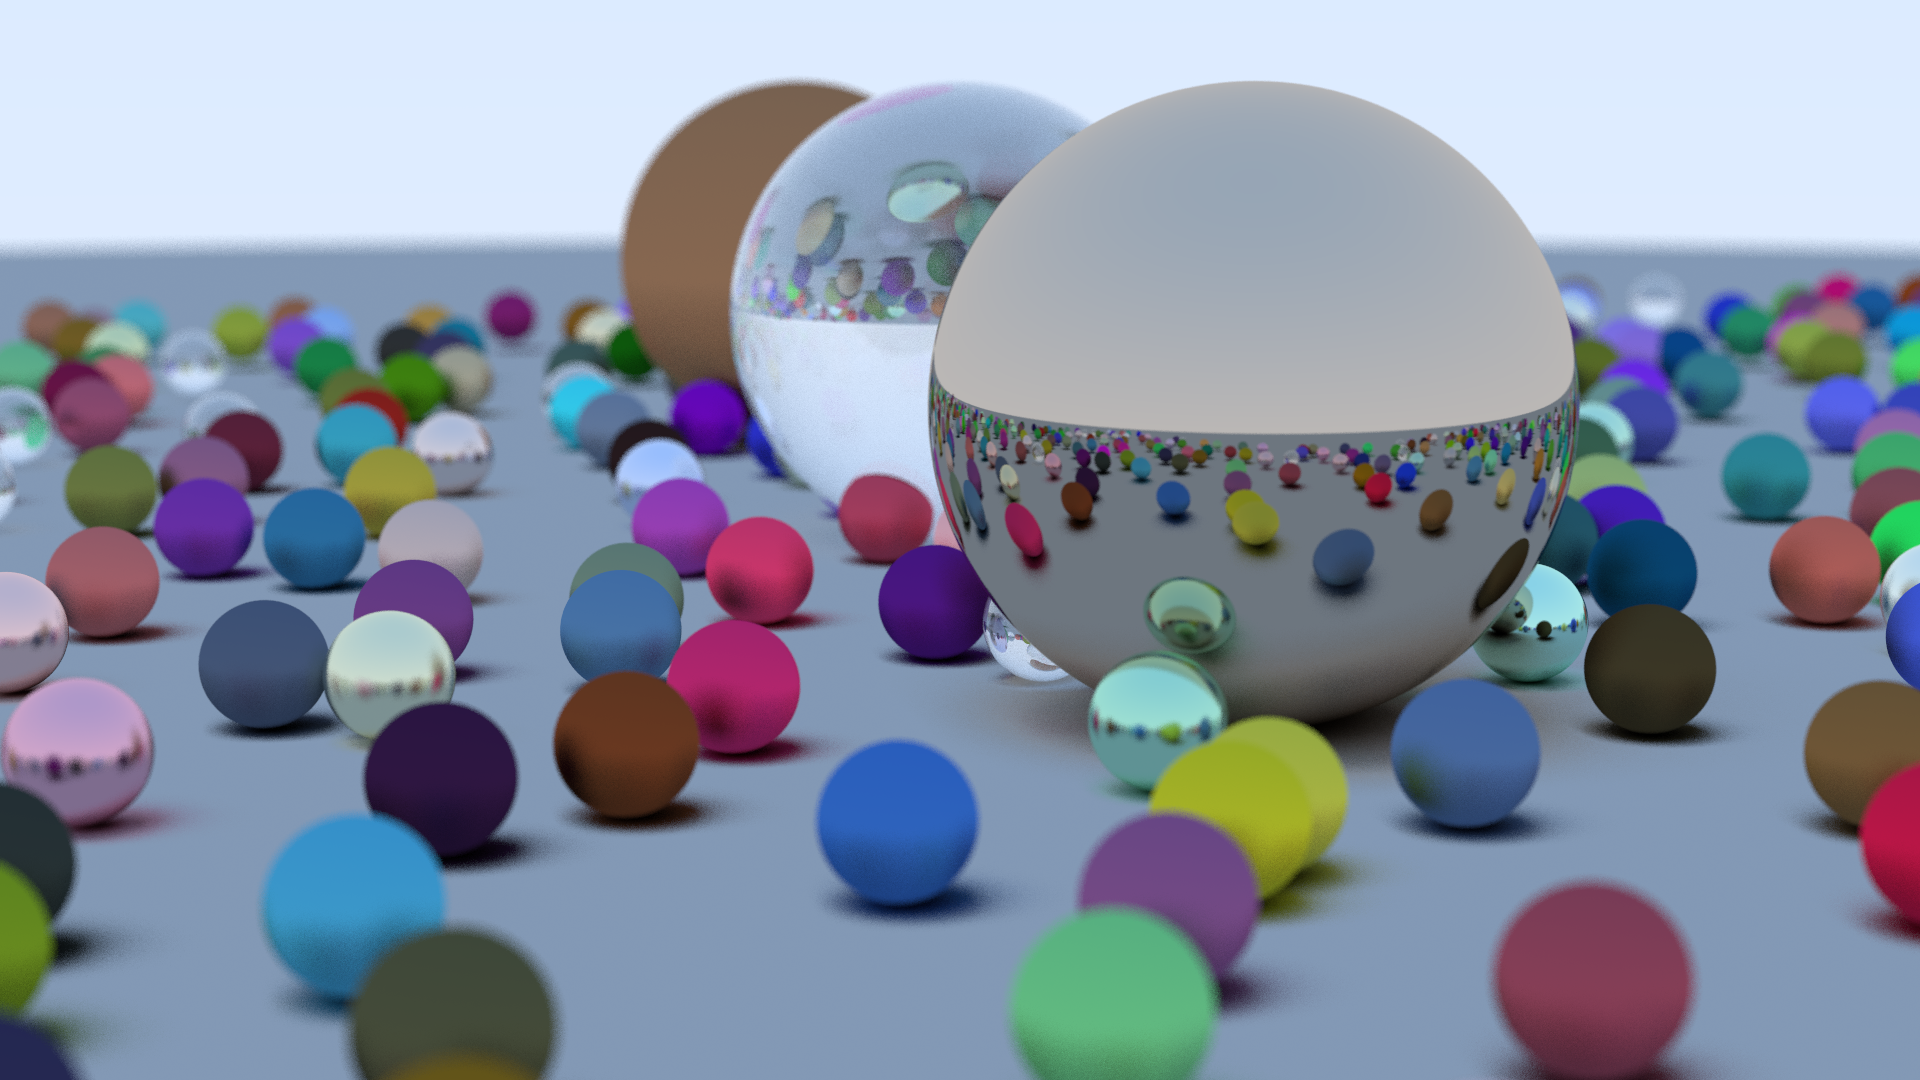
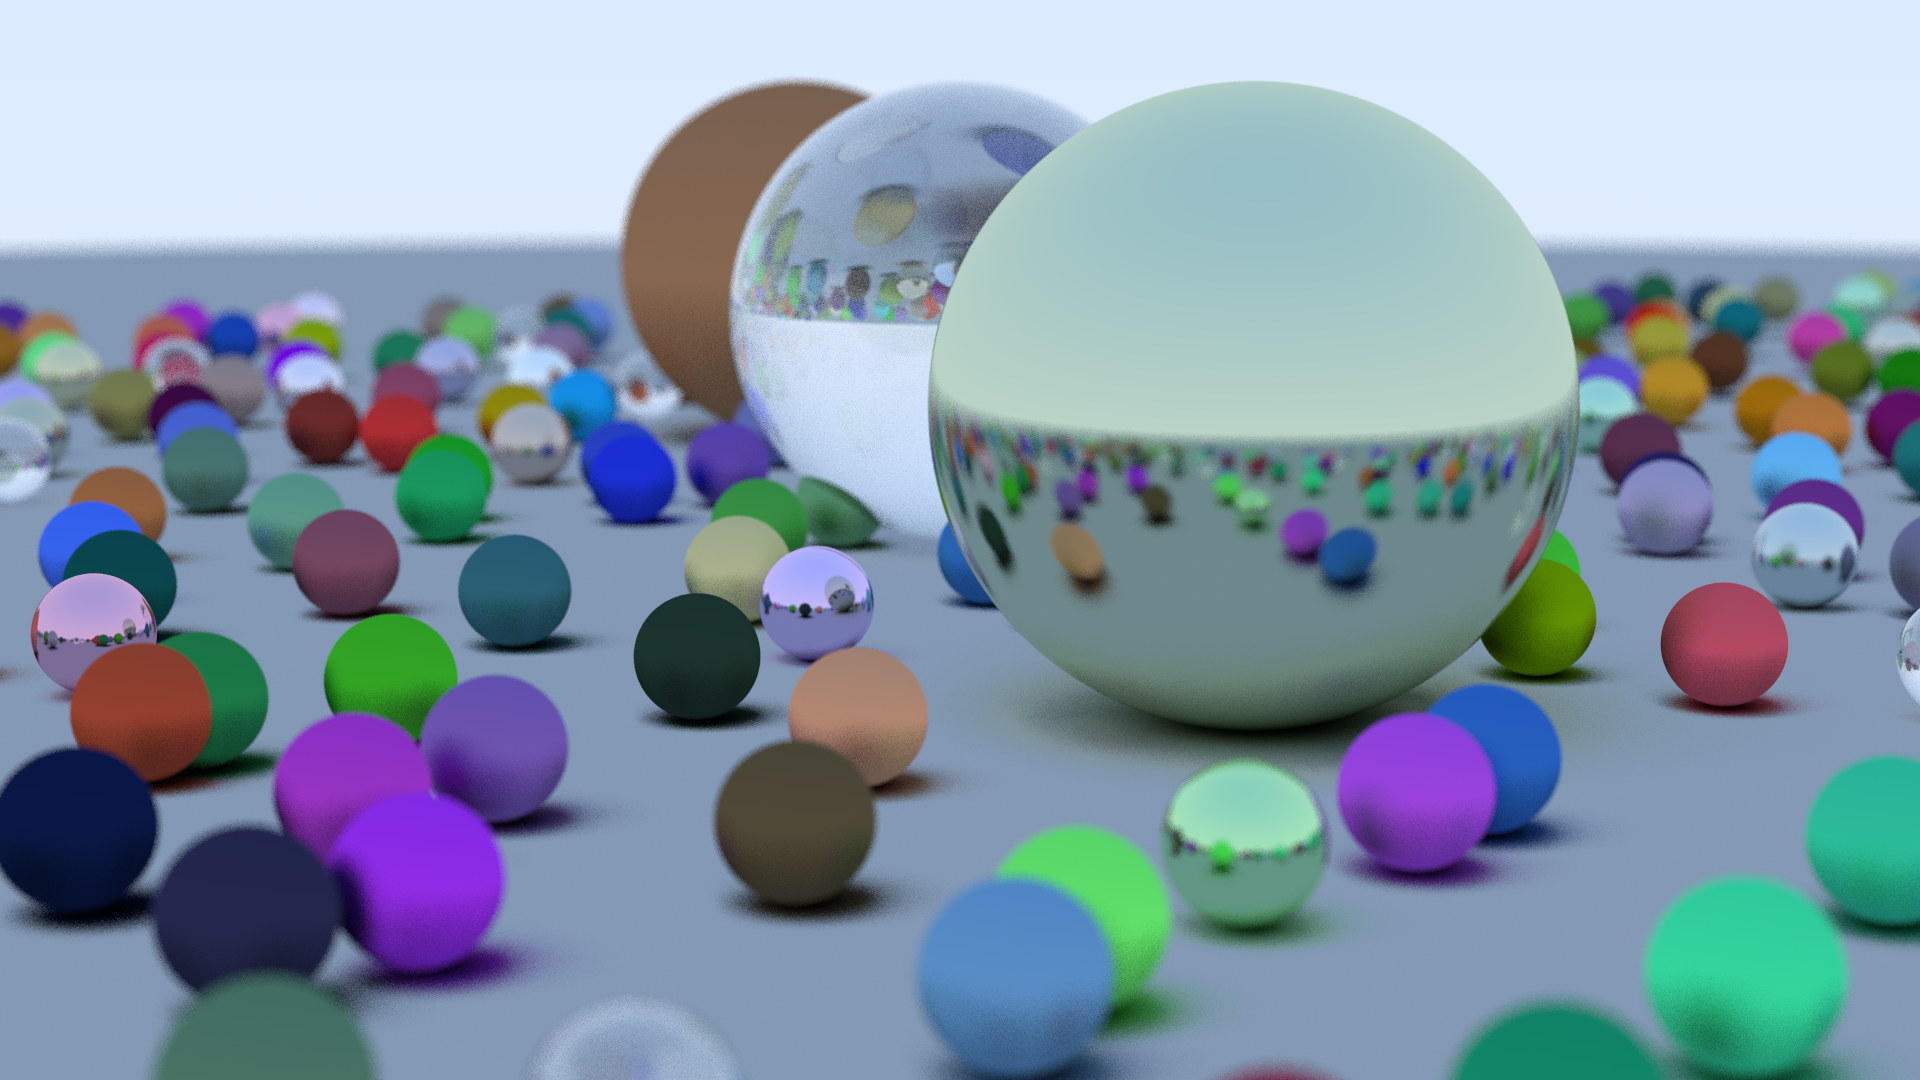
Avancement de bvh pour l'optimisation en arbre

diff --git a/Raytracing/src/bvh.rs b/Raytracing/src/bvh.rs
@@ -3,66 +3,84 @@ use crate::hittable::{HitRecord, Hittable};
 use crate::ray::Ray;
 use rand::Rng;
 use std::cmp::Ordering;
-use std::rc::Rc;
 
-pub struct BVHNode {
-    left: Rc<dyn Hittable>,
-    right: Rc<dyn Hittable>,
-    bbox: AABB,
+enum BVHNode {
+    Branch { left: Box<BVH>, right: Box<BVH> },
+    Leaf(Box<dyn Hittable>)
 }
 
-impl BVHNode {
-    pub fn new(hittable: &mut [Rc<dyn Hittable>], time0: f32, time1: f32) -> Self {
+pub struct BVH {
+    tree: BVHNode,
+    bbox: AABB
+}
+
+impl BVH {
+    pub fn new(mut hittable:Vec<Box<dyn Hittable>>, time0: f32, time1: f32) -> Self {
         fn box_compare(
             time0: f32,
             time1: f32,
             axis: usize,
-        ) -> impl FnMut(&Rc<dyn Hittable>, &Rc<dyn Hittable>) -> Ordering {
+        ) -> impl FnMut(&Box<dyn Hittable>, &Box<dyn Hittable>) -> Ordering {
             move |a, b| {
                 let a_bbox = a.bounding_box(time0, time1);
                 let b_bbox = b.bounding_box(time0, time1);
                 if a_bbox.is_none() || b_bbox.is_none() {
                     panic!("No bounding box")
-                }
-                if a_bbox.unwrap().min[axis] - b_bbox.unwrap().min[axis] < 0.0 {
-                    Ordering::Less
-                } else {
-                    Ordering::Greater
+                }else{
+                    if a_bbox.unwrap().min[axis] - b_bbox.unwrap().min[axis] < 0.0 {
+                        Ordering::Less
+                    } else {
+                        Ordering::Greater
+                    }
+
                 }
             }
         }
 
-        let axis = rand::thread_rng().gen_range(0, 3) as usize;
+        fn axis_range(hittable: &Vec<Box<dyn Hittable>>, time0: f32, time1: f32, axis: usize) -> f32 {
+            let (min, max) = hittable.iter().fold((f32::MAX, f32::MIN), |(bmin, bmax),hit| {
+                if let Some(aabb) = hit.bounding_box(time0, time1) {
+                    (bmin.min(aabb.min[axis]), bmax.max(aabb.max[axis]))
+                } else{
+                    (bmin, bmax)
+                }
+            }
+        );
+        max - min
+        }
+
+        let mut axis_ranges: Vec<(usize, f32)> = (0..3)
+            .map(|a| (a, axis_range(&hittable, time0, time1, axis)))
+            .collect();
+
+        axis_ranges.sort_unstable_by(|a, b| b.1.partial_cmp(&a.1).unwrap());
+
+        let axis = axis_ranges[0].0;
 
         hittable.sort_unstable_by(box_compare(time0, time1, axis));
         let len = hittable.len();
-        let (left, right) = if len == 1 {
-            (hittable[0].clone(), hittable[0].clone())
-        } else if len == 2 {
-            (hittable[0].clone(), hittable[1].clone())
-        } else {
-            (
-                Rc::new(BVHNode::new(&mut hittable[0..len / 2], time0, time1)) as Rc<dyn Hittable>,
-                Rc::new(BVHNode::new(&mut hittable[len / 2..len], time0, time1))
-                    as Rc<dyn Hittable>,
-            )
-        };
-
-        let left_bbox = left.bounding_box(time0, time1);
-        let right_bbox = right.bounding_box(time0, time1);
-        if left_bbox.is_none() || right_bbox.is_none() {
-            panic!("No bounding box")
-        }
-
-        BVHNode {
-            left,
-            right,
-            bbox: surrounding_box(&left_bbox.unwrap(), &right_bbox.unwrap()),
+        match len {
+            0 => panic!("no elements"),
+            1 => {
+                let leaf = hittable.pop().unwrap();
+                if let Some(bbox) = leaf.bounding_box(time0, time1) {
+                    BVH { tree: BVHNode::Leaf(leaf), bbox}
+                }else {
+                    panic!["no bounding box"]
+                }
+            },
+            _ => {
+                let right = BVH::new(hittable.drain(len / 2..).collect(), time0, time1);
+                let left = BVH::new(hittable, time0, time1);
+                let bbox = surrounding_box(&left.bb, &right.bbox);
+                BVH { tree: BVHNode::Branch { left: Box::new(left), right: Box::new(right) }, bbox}
+            }
         }
     }
+
 }
 
-impl Hittable for BVHNode {
+impl Hittable for BVH {
     fn hit(&self, ray: &Ray, t_min: f32, t_max: f32) -> Option<HitRecord> {
         if self.bbox.hit(&ray, t_min, t_max) {
             let left = self.left.hit(&ray, t_min, t_max);

diff --git a/Raytracing/src/main.rs b/Raytracing/src/main.rs
@@ -90,7 +90,7 @@ fn main_scene() -> HittableList {
     world.push(Sphere::new(
         Vector3::new(4.0, 1.0, 0.0),
         1.0,
-        Metal::new(Vector3::new(0.7, 0.6, 0.5), 0.0),
+        Metal::new(Vector3::new(0.7, 0.8, 0.6), 0.1),
     ));
     world
 }
@@ -205,7 +205,7 @@ fn main() {
     let img_width: i32 = 1920;
     let aspect_ratio = 16.0 / 9.0;
     let img_height: i32 = (img_width as f32 / aspect_ratio) as i32;
-    let samples_per_pixel = 100;
+    let samples_per_pixel = 60;
 
     //Monde raytraced
     let world = main_scene();
